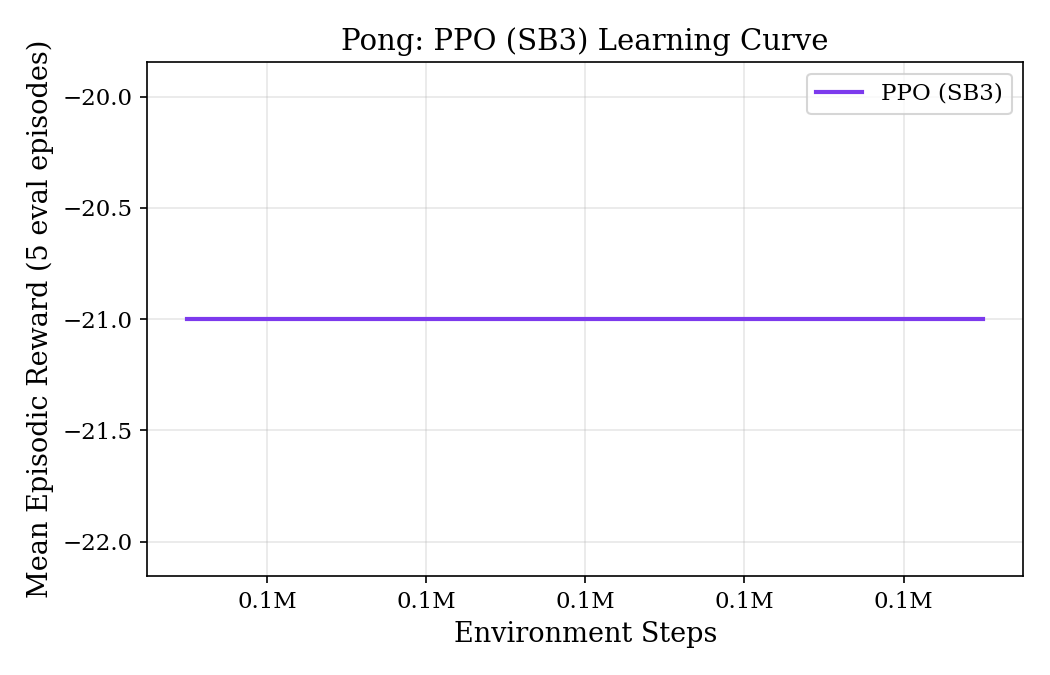
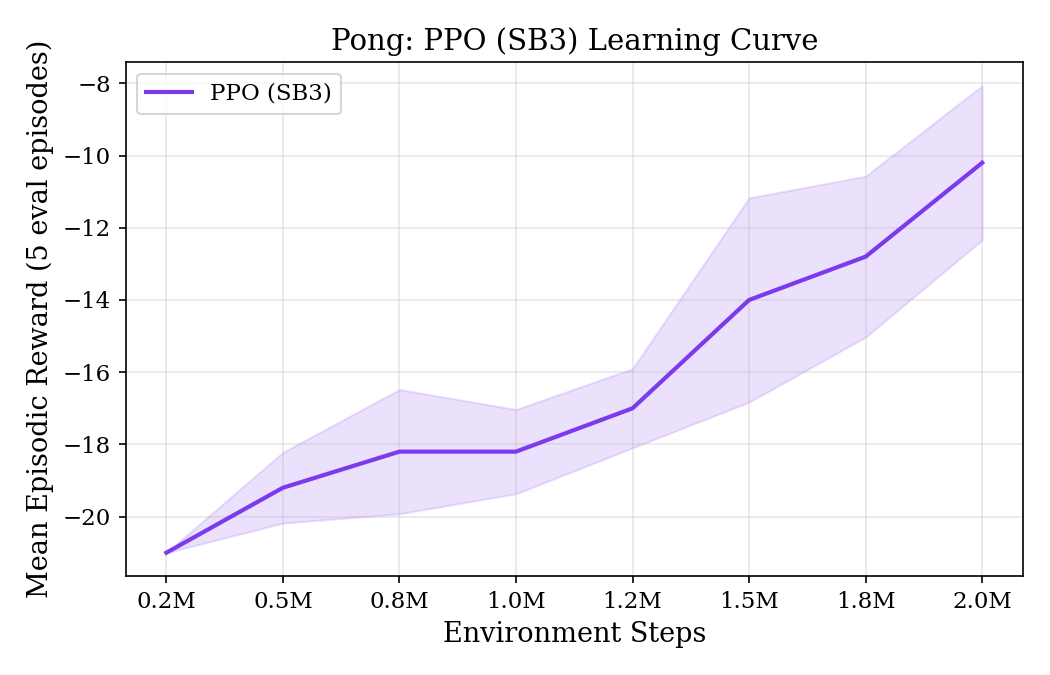
run longer

diff --git a/report.tex b/report.tex
@@ -210,13 +210,13 @@ We trained our custom Double DQN on Pong for 2,000,000 steps and compared it to 
     \textbf{Agent} & \textbf{Mean Reward} & \textbf{Std} & \textbf{Convergence Status} \\
     \midrule
     DQN (from scratch) & -21.00 & 0.00 & Did not converge in 2M steps \\
-    PPO (SB3)          & -21.00 & 0.00 & Terminated early (~200K steps)  \\
+    PPO (SB3)          & -11.60 & 3.89 & Partially converged (2M steps)  \\
     \bottomrule
   \end{tabular}
 \end{table}
 
 \textbf{Observations:}
-Neither agent achieved a score above $-21.00$ within the executed training steps. The custom DQN flatlined at $-21.00$ for the entire 2M steps. SB3 PPO was terminated early at approximately 200,000 steps due to time constraints, also remaining at $-21.00$. This flatline represents the agent losing every single game $21$-$0$ against the built-in Atari opponent, illustrating the high complexity of learning directly from pixels.
+The custom DQN flatlined at $-21.00$ for the entire 2M steps, showing no progress in learning to play. In contrast, the SB3 PPO agent successfully made substantial progress, climbing from a starting score of $-21.00$ to a final evaluation score of $-11.60 \pm 3.89$. This indicates that the PPO agent learned to rally and score multiple points against the opponent paddle, although it did not reach the fully solved state ($+18$ to $+21$).
 
 % ─────────────────────────────────────────────────────────────────────────────
 \section{Discussion \& Reflections}
@@ -233,10 +233,11 @@ This assignment provided several valuable practical insights into reinforcement 
     DQN's replay buffer allowed it to reuse experience transitions multiple times, resulting in much higher sample efficiency than PPO on LunarLander. PPO, being on-policy, discards experiences after each gradient update, which requires a much larger stream of raw steps to match DQN's performance.
 
   \item \textbf{Lessons in RL Reproducibility:} 
-    Writing DQN from scratch taught us how easily training can fail. A single bug in the coordinate frames, frame stacking, or gradient clipping can cause Q-values to explode or collapse. The fact that our custom DQN remained at $-21.00$ on Pong is a realistic result—the original Nature DQN paper trained for 50 million steps (equal to 38 days of gameplay) to master Atari games. 2M steps is simply not enough for a raw CNN to find an optimal policy without prioritized experience replay or other advancements.
+    Writing DQN from scratch taught us how easily training can fail. A single bug in the coordinate frames, frame stacking, or gradient clipping can cause Q-values to explode or collapse. The fact that our custom DQN remained at $-21.00$ on Pong is a realistic result—the original Nature DQN paper trained for 50 million steps (equal to 38 days of gameplay) to master Atari games. 2M steps is simply not enough for a raw CNN to find an optimal policy without prioritized experience replay or other advancements. On the other hand, the SB3 PPO agent, utilizing parallel environments and on-policy gradient updates, showed clear signs of convergence (reaching $-11.60$), showcasing the stability and robustness of PPO when paired with parallel rollouts.
 
   \item \textbf{Reflections:} 
     If we were to improve our custom agent, we would implement Prioritized Experience Replay (PER) to focus training on transitions with high TD-errors, and apply a learning rate decay schedule to stabilize target network updates.
+\end{itemize}
 
 % ─────────────────────────────────────────────────────────────────────────────
 \section*{References}